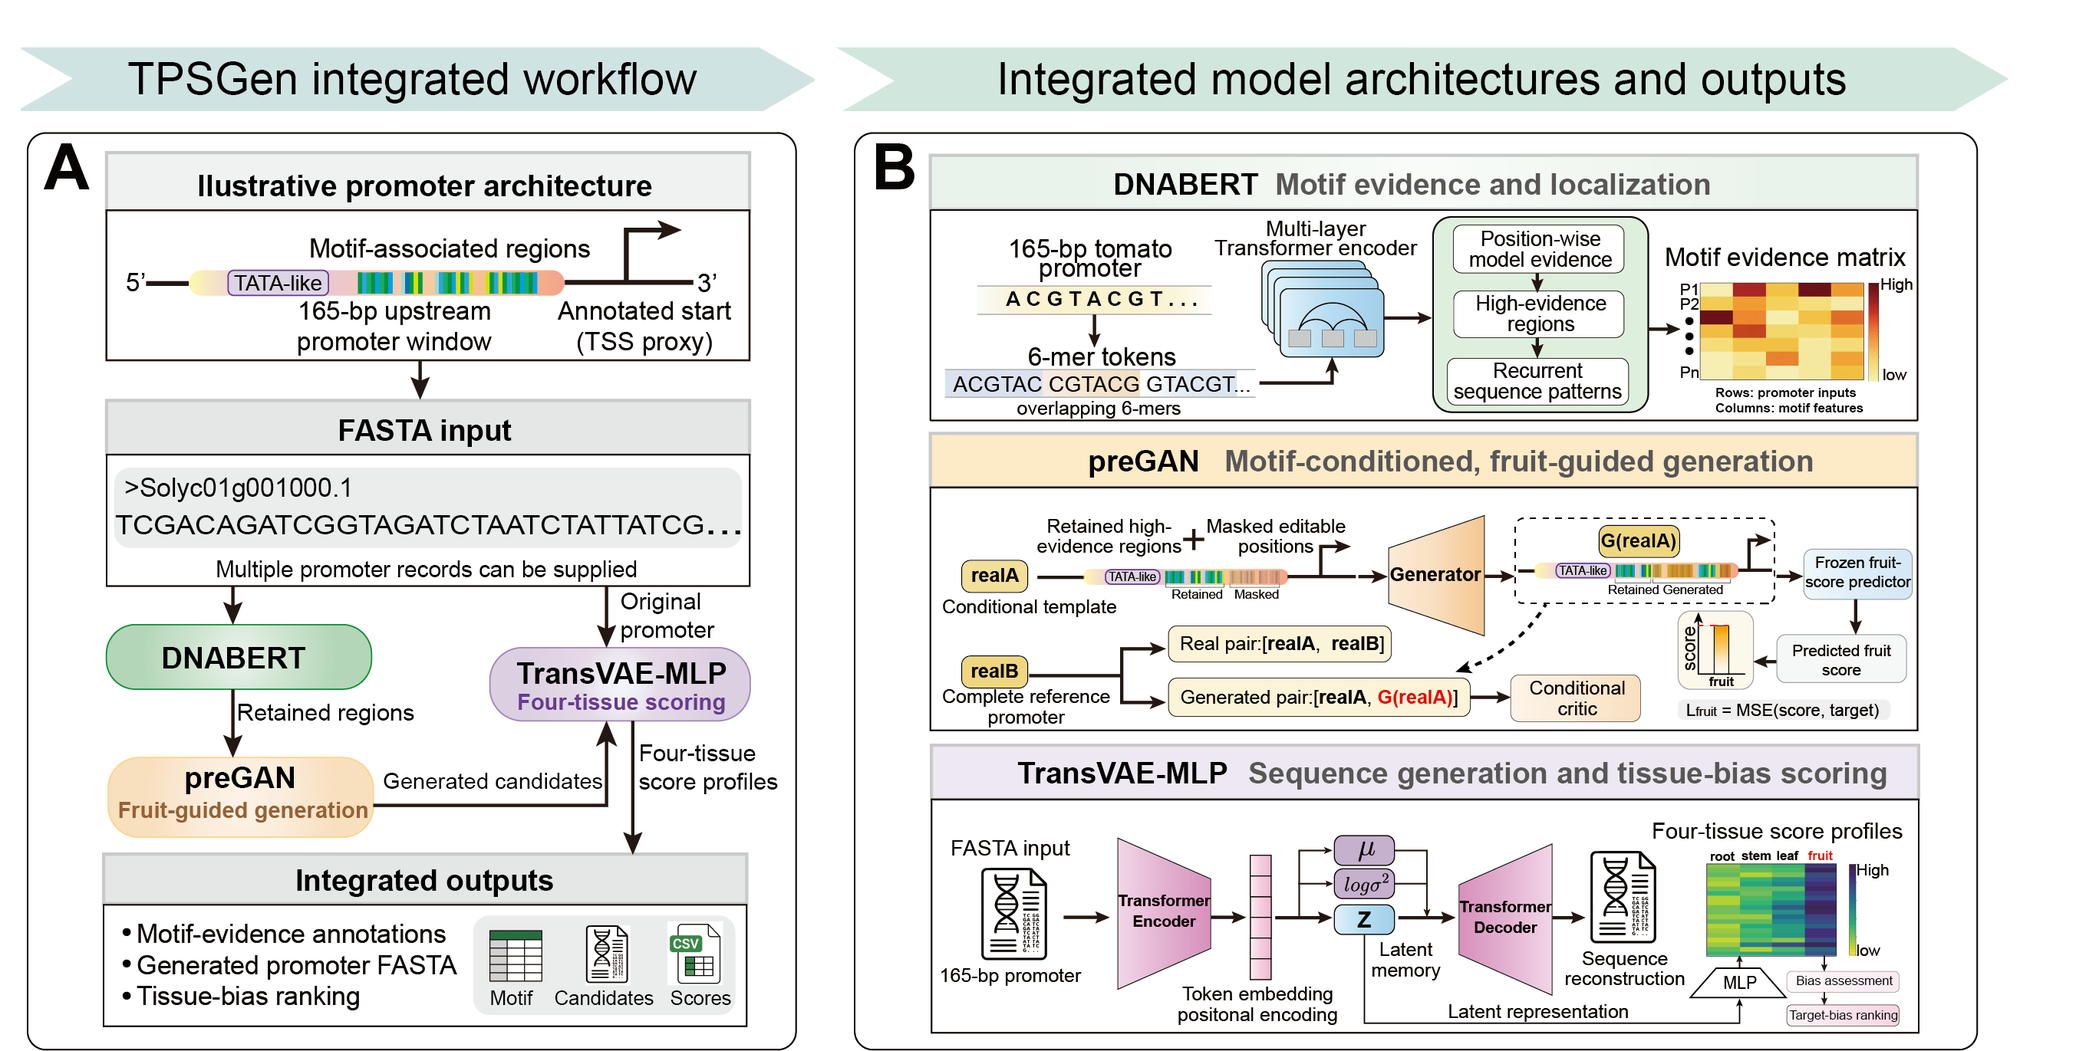
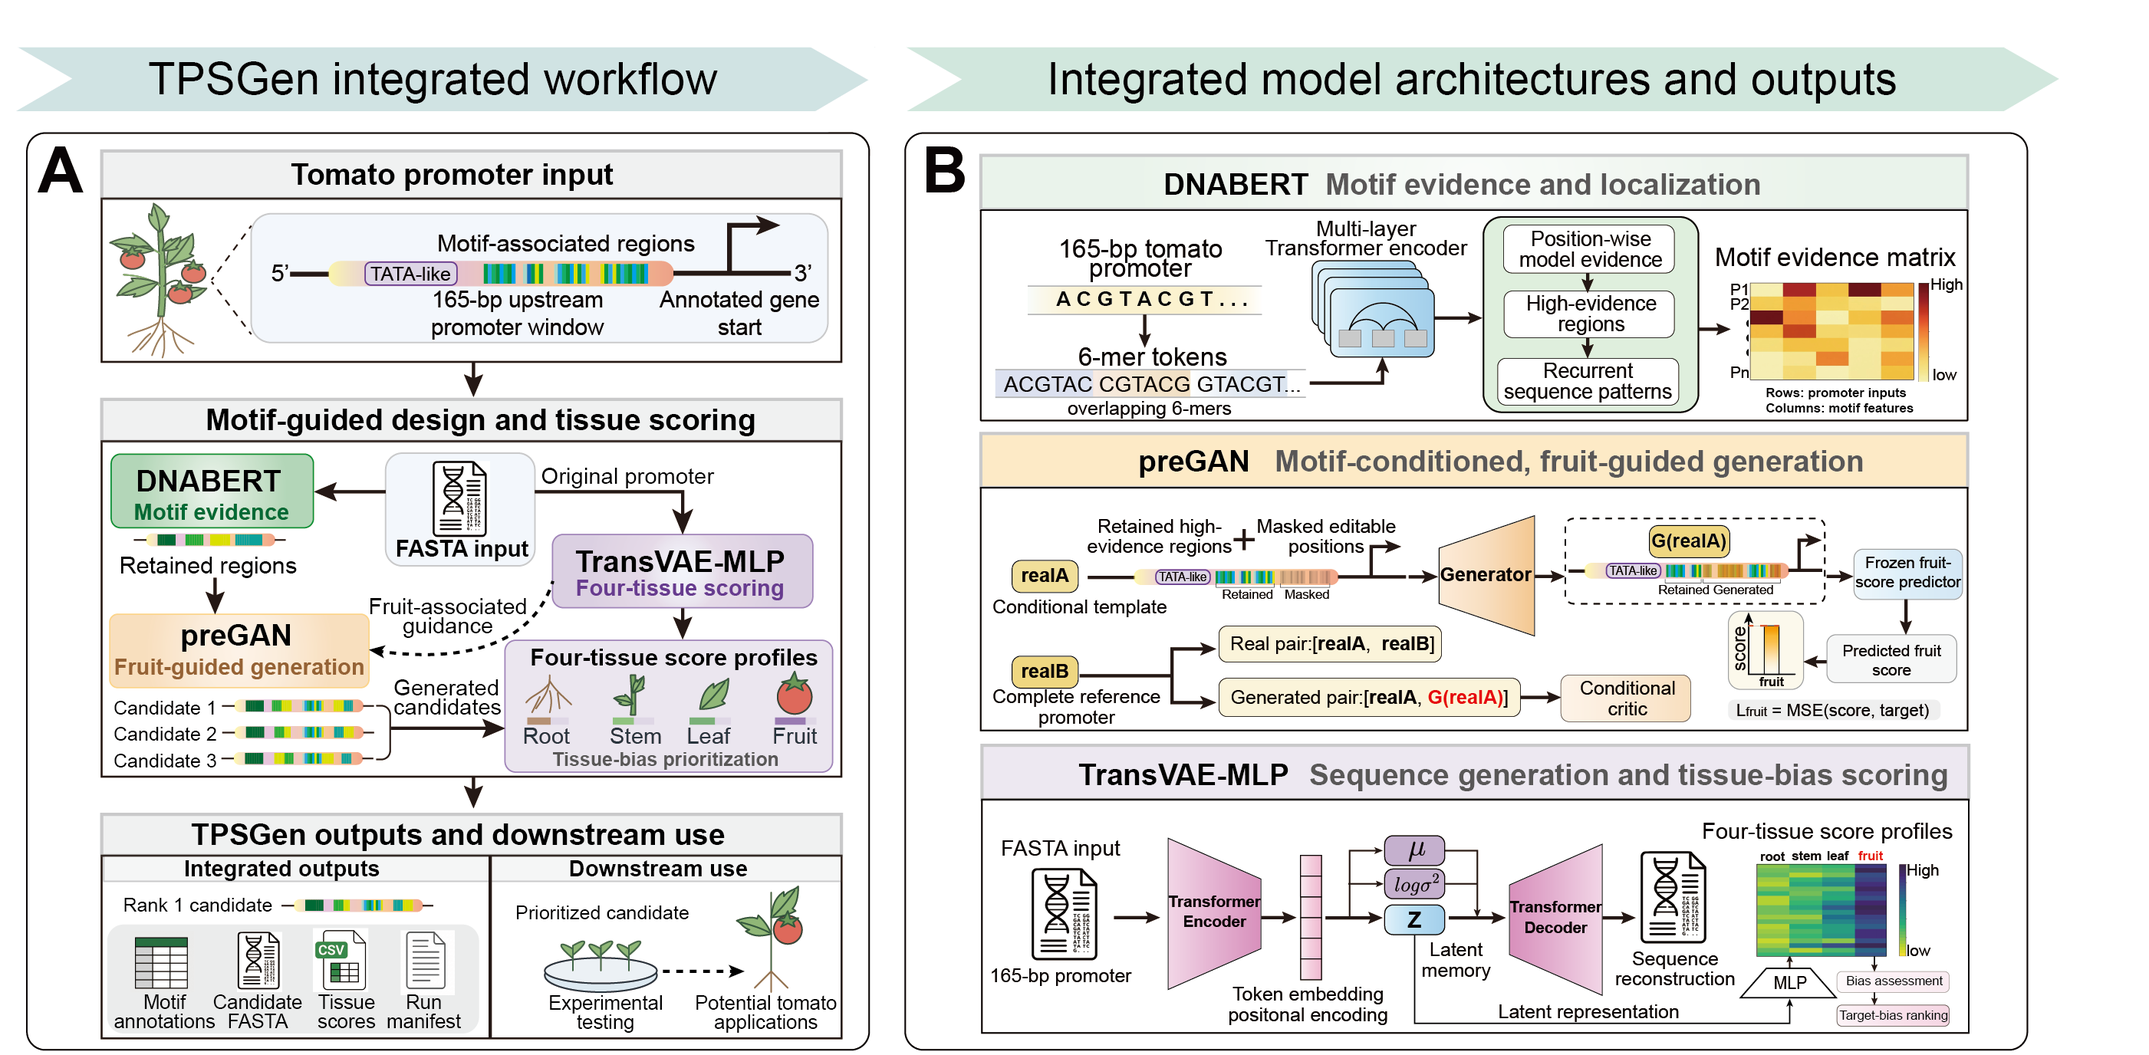
Initial commit

Changed region(s): [[0.0, 0.0306, 0.932, 1.0], [0.0621, 0.0613, 0.3417, 0.0919]]

diff --git a/docs copy/model_migration_audit.md b/docs copy/model_migration_audit.md
@@ -1,0 +1,266 @@
+# Model migration audit
+
+This internal document records the evidence used to migrate the three thesis
+mechanisms into TomatoPromoterDesigner. It is not manuscript text. A component
+is considered released only after its source, checkpoint, input data and output
+have been matched and tested together.
+
+## Release rule
+
+Each mechanism must pass all of the following checks before it is described as a
+package capability:
+
+1. The implemented architecture strictly loads the intended checkpoint.
+2. Input preprocessing matches the preprocessing used for that checkpoint.
+3. A retained result can be reconstructed from a documented command.
+4. Output fields state whether values are model scores, measured values or
+   descriptive sequence statistics.
+5. The manuscript, Supplement, README and CLI use the same mechanism name.
+
+## Mechanism 1: TransVAE-MLP
+
+### Thesis definition
+
+The Chapter 3 mechanism combines a Transformer-based VAE with a four-output MLP.
+The same latent representation supports sequence reconstruction/generation and
+root, stem, leaf and fruit target estimation. The thesis then describes latent-
+space search for fruit-biased candidates.
+
+### Matched original resources
+
+| Resource | Original path | Verified observation |
+|---|---|---|
+| Transformer building blocks | `MpraVAE/code/TransVAE.py` | Contains Transformer encoder/decoder, convolutional bottleneck and autoregressive decoder components. |
+| Joint training logic | `MpraVAE/code/transformervae.py` | Contains four-target loading, reconstruction/KL/prediction terms, KL warm-up and retained training metrics. |
+| Transformer checkpoint | `MpraVAE/code/transformerresult/models1/best_val_corr_model.pth` | Contains 180 keys, including `transvae.*`, `predictor.*` and `vocab_to_base.*`. |
+| Training history | `MpraVAE/code/transformerresult/results1/loss_curves/loss_history.csv` | Contains 50 epochs of retained losses. |
+| Training log | `MpraVAE/code/transformerresult/logs1/training_log.log` | The best mean validation correlation occurs at epoch 47: 0.7801, 0.8237, 0.8019 and 0.7924 for targets 1--4. |
+| Retained Transformer candidates | `MpraVAE/results/trans_designed_promoters200.csv` | Contains 20 retained candidate rows. |
+
+### Blocking inconsistencies
+
+- The checkpoint uses a 128-dimensional latent representation: for example,
+  `transvae.encoder.z_means.weight` has shape `(128, 896)` and the predictor
+  begins with a `(128, 128)` weight. It is not the 64-dimensional convolutional
+  checkpoint currently bundled by the package.
+- The checkpoint contains a 23-token embedding and a 22-token generator output.
+  The retained vocabulary file is a peptide vocabulary inherited from the base
+  Transformer implementation, while the joint training script converts DNA
+  one-hot channels directly to integer indices using `A=0`, `C=1`, `G=2` and
+  `T=3`. The unused embedding and generator dimensions are therefore inherited
+  implementation capacity, not 23 biologically defined DNA tokens.
+- The joint wrapper fragment sets `pad_idx=0` and constructs masks from
+  `token != 0`, although token 0 also represents A. Consequently, the checked
+  source masks adenine positions as if they were padding. This behavior is a
+  retained implementation defect, not a biologically motivated preprocessing
+  choice. Compatibility inference and any corrected retraining route must keep
+  these two behaviors explicit and separate.
+- The checked `transformervae.py` calls `JointPromoterModel`, but that class is
+  absent from the file. A second `forward` method is incorrectly nested under
+  `ExpressionPredictor`. The source therefore cannot currently recreate the
+  checkpoint architecture without reconstruction.
+- The script writes `params['latent_dim']`, whereas `create_VAE` reads
+  `params['d_latent']`. The retained checkpoint demonstrates that the effective
+  latent dimension was 128.
+- The reported 3-mer term is calculated from detached, discretized outputs and
+  wrapped in a new tensor. It is logged in the total objective but does not
+  propagate a gradient to the generator. It must not be described as an active
+  differentiable training constraint without correction and retraining.
+- `generate1.py` performs genetic-algorithm search using the separate
+  convolutional `vaecnn1.JointPromoterModel`; it is not a verified design entry
+  point for the 180-key Transformer checkpoint.
+- `tragenerate.py` is not an executable Transformer design route. It calls a
+  nonexistent `transvae.embedding`, assumes incompatible encoder and decoder
+  signatures, passes undefined keyword arguments and later calls `model.decoder`,
+  which is not present on the recovered joint wrapper.
+
+### Checkpoint-to-data verification
+
+A clean reconstructed architecture strictly loads all 180 checkpoint keys. The
+missing joint wrapper was recovered from the retained Python 3.10 bytecode. This
+showed that the fourth value returned by `TransVAE.forward` was misleadingly
+named `z` in the wrapper: it was actually
+`predict_len2(predict_len1(mu))`, and this 128-dimensional deterministic
+representation was passed to the expression MLP. The predictor did not receive
+the sampled latent variable.
+
+The historical wrapper audit used the source-defined DNA mapping and its
+retained validation table to document the provenance of the old evaluation
+artifact. That artifact is not a released scoring checkpoint.
+Computed correlations are 0.780106, 0.823665, 0.801869 and 0.792406; these match
+the rounded epoch-47 log values 0.7801, 0.8237, 0.8019 and 0.7924. The separate
+`validation_set.csv` contains 3,000 rows and is not the validation table used for
+this retained checkpoint.
+
+The current release does not ship that historical checkpoint or its truncated
+input path. The active training and scoring implementation uses complete
+165-bp inputs with nucleotide positions as valid attention keys.
+
+### Design-path verification
+
+The thesis describes genetic-algorithm search within a plus/minus 2 neighborhood
+of an encoded latent vector. Its fitness is the fruit score minus the maximum of
+the root, stem and leaf scores, with a penalty for negative non-fruit scores.
+That scientific target is clear, but the retained Transformer checkpoint does
+not currently provide a valid implementation of the stated design path.
+
+The historical joint wrapper shifts the DNA tokens into `src=token[:-1]` and
+`tgt=token[1:]`, but its target mask only removes token 0 positions. It does not
+apply a causal autoregressive mask. Under this retained teacher-forced path, the
+decoder reconstructs 99.83% of bases in a 128-sequence diagnostic batch. However,
+replacing the decoder latent input with zeros, random vectors, reversed-sample
+means or the MLP prediction representation leaves 100% of decoded base calls
+unchanged. The decoder is therefore copying information from the unmasked target
+context and is not demonstrably conditioned on the latent representation.
+
+The retained `trans_designed_promoters200.csv` is also not releasable evidence:
+its 20 generated sequences contain on average 92.36% C and no G or T, with a
+median maximum homopolymer length of 103 bp (range 48--143 bp). These sequences
+are degenerate and fail basic sequence-quality expectations.
+
+Consequently, the package must not expose latent-space GA design from this
+checkpoint. A valid route requires corrected causal decoding, a single explicitly
+shared representation for the predictor and decoder, retraining, and validation
+that decoded sequences both respond to latent perturbation and pass predefined
+sequence QC. The thesis fitness function can be retained in that corrected
+training/design implementation, but the historical candidate table cannot be
+used as its validation output.
+
+### Current package state
+
+The current `models/mpravae/best_val_corr_model.pth` is a 51-key convolutional
+VAE checkpoint. The matching model is implemented in
+`legacy/transvae_tomato.py`. This route must be treated as a convolutional VAE
+backend and must not be presented as the complete thesis TransVAE-MLP mechanism.
+
+### Migration decision
+
+Status: **blocked from release, available for reconstruction work**.
+
+A clean 128-dimensional Transformer joint core has now been reconstructed,
+strictly loads all 180 keys and reproduces the retained epoch-47 validation
+correlations. It remains internal until the checkpoint is packaged, the
+compatibility limitations are represented in user-facing metadata and the
+Transformer-compatible design route is retrained and validated. A corrected
+architecture needs an explicit DNA vocabulary and padding token, causal target
+masking and a shared predictor/decoder representation; it must be released as a
+distinct model version. The existing convolutional route will remain available
+under an explicit backend name during this migration.
+
+## Mechanism 2: DNABERT-derived motif identification
+
+### Matched resources
+
+- Base 6-mer checkpoint: `DNABERT/6-new-12w-0.zip`.
+- Matching retained attention input: `DNABERT/examples/sample_data/vision/dev.tsv`.
+- Retained arrays: `DNABERT/examples/result/6/atten.npy` and
+  `pred_results.npy`, both with 10,222 rows.
+- Retained fine-tuned-model candidate: `DNABERT/examples/ft/6`, containing a
+  12-layer, 768-hidden-unit, 12-head `BertForSequenceClassification` checkpoint
+  with a two-class head and `finetuning_task=dna690`.
+- Motif processing: `DNABERT/motif/find_motifs.py` and `motif_utils.py`.
+- Mutation processing: `DNABERT/SNP/`.
+
+The 10,222-row `vision/dev.tsv` is byte-identical to
+`tomatoft/tomatoft3-qvjian/train.tsv`. The separate 6,000-row
+`tomatoft/dev.tsv` does not match the retained attention array.
+
+The checkpoint in `examples/ft/6` is not the model that produced the retained
+arrays. Recomputing class-1 probabilities for the first ten rows of
+`vision/dev.tsv` gives a maximum absolute difference of 0.932 from
+`examples/result/6/pred_results.npy`. A retained cache filename,
+`cached_dev_fitresultnew_81_dnaprom`, indicates that the visualization run used
+a checkpoint or output directory named `fitresultnew`; that checkpoint is not
+present in the checked tree. The existing `ft/6` model must therefore not be
+silently substituted.
+
+Status: **post-processing is reconstructable; raw FASTA-to-attention inference
+requires the matching `fitresultnew` tomato fine-tuned checkpoint, which has not
+yet been located**. The unrelated `ft/6` classifier is retained evidence of a
+separate fine-tuning run, not a valid replacement.
+
+### Post-processing reproduction
+
+The package adapter now follows the retained operation order: exact
+high-attention subsequences are tested for enrichment first, Benjamini-Hochberg
+adjustment is applied across those exact motifs, and only significant motifs are
+then merged and expanded to 24-bp windows. The previous adapter incorrectly
+merged motifs before testing and returned the 20 highest-ranked candidates when
+none was significant. That fallback converted adjusted p-values of 1.0 into
+apparent motif output and has been removed. An empty significant set now produces
+an explicit empty-result record rather than nonsignificant motifs.
+
+Using `vision/dev.tsv` (10,222 rows), `result/6/atten.npy`, `window_size=24`,
+`min_len=5`, adjusted-p-value cutoff 0.005 and `min_n_motif=3`, the corrected
+adapter extracts 8,096 exact motifs, retains 787 after enrichment testing,
+produces 31 merged motif groups and retains 27 motif records after 24-bp
+windowing and minimum-instance filtering. These counts match the 27 motif
+files retained under the original `motif/result/6` directory. The regenerated
+repository table reports the top retained motifs as CAAAA (316), CTATT (239),
+ATTTT (188), TTAAA (184) and TTTAT (121). Older retained `6-2` and `6-3` summary files are
+byte-identical frequency-style retained copies and must not be described as
+independent validation runs or as the current adapter output.
+
+Exact reconstruction requires Biopython 1.85 or later. Biopython 1.79 selects
+different optimal terminal-gap alignments in `PairwiseAligner`, yielding 29
+motifs and altered instance counts on the same data. The package therefore sets
+`biopython>=1.85`. The retained script's `align_all_ties` branch compares
+alignment objects rather than their numeric scores; the compatibility path
+preserves that actual behavior because changing it duplicates instances across
+equally scoring canonical motifs. This is a provenance-compatible reconstruction
+of retained attention outputs, not FASTA-to-attention inference and not an
+independent biological validation of the DNABERT classifier.
+
+## Mechanism 3: preGAN
+
+### Matched resources
+
+- Conditional data: `deepseed/data/merged_result.csv`, containing 5,100 rows of
+  `realA`, `realB` and `expr`.
+- Mask encoding: `deepseed/Generatorme/pro_data.py`.
+- DenseLSTM definition and checkpoint: `deepseed/Predictor/SeqRegressionModel.py`
+  and `deepseed/Predictor/results/model/165_mpra_expr_denselstm.pth`.
+- Closest predictor-guided WGAN-GP implementation:
+  `deepseed/Generator/preGAN.py`.
+
+`pre-GAN-target.py` does not call a predictor in the expression term.
+`pre-GAN-target1.py` instantiates a DenseLSTM predictor but does not load trained
+weights. These files are experimental variants and will not be migrated as the
+released implementation.
+
+Status: **partially reconstructable**. The predictor checkpoint exists, but the
+referenced preGAN generator checkpoint has not yet been located. The corrected
+training route must be parameterized and tested; otherwise the generator must be
+retrained before preGAN inference is released.
+
+### Predictor and training-path audit
+
+Only two model checkpoints were found under the complete `deepseed` tree, both
+named `165_mpra_expr_denselstm.pth`. They deserialize as complete DenseLSTM
+models with 612,897 parameters and 175 state tensors, but they are not copies:
+none of their 175 tensors is identical. The packaged checkpoint has SHA-256
[1 lines of base64/hex data omitted]
+and exactly matches `Predictor/results/model/165_mpra_expr_denselstm.pth`. Its
+retained training log ends at a validation correlation of approximately 0.710.
+The alternative `results1` checkpoint has SHA-256
[1 lines of base64/hex data omitted]
+and its retained log ends near 0.021 with much larger losses. The `results1`
+branch must not supply figures for the packaged `results` checkpoint.
+
+The corresponding candidate training table `data/output.csv` contains 8,545
+165-bp sequence/expression rows. The conditional GAN table
+`data/merged_result.csv` contains 5,100 rows with `realA`, `realB` and `expr`;
+`realA` uses `M` to mark mutable positions while fixed nucleotides preserve the
+retained motif/flanking context. These row counts describe retained resources,
+not independent test cohorts.
+
+None of the retained GAN scripts forms a releasable predictor-guided training
+route as written. `preGAN_expr.py` accepts a predictor argument but does not use
+it in its loss, and its entry point passes no predictor. `pre-GAN-target.py`
+compares the generated sequence tensor with a tensor filled with 100 rather than
+calling an expression model. `pre-GAN-target1.py` does call a DenseLSTM in the
+loss, but instantiates it with random weights and never loads either retained
+checkpoint. No generator or discriminator checkpoint is present anywhere under
+`deepseed`. Consequently, the package may expose the matched DenseLSTM scalar
+scorer, but must not expose trained preGAN generation until a corrected training
+implementation is retrained and a matching generator checkpoint is validated.

diff --git a/docs copy/tool_documentation.md b/docs copy/tool_documentation.md
@@ -1,0 +1,65 @@
+# TPSGen Final Tool Documentation
+
+## Connected Workflow
+
+```text
+165 bp promoter
+  → DNABERT evidence
+  → retained-position masked template
+  → preGAN generation
+  → TransVAE four-tissue scoring
+  → ranked candidates
+```
+
+DNABERT evidence is passed into preGAN through the retained-position template. TransVAE then scores generated candidates for root-, stem-, leaf-, and fruit-associated activity.
+
+## Validate Models
+
+```bash
+tpsgen validate-models
+```
+
+Run this before release inference to check model paths and checkpoint availability.
+
+## Run the Integrated Route
+
+```bash
+tpsgen run-pregan \
+  --input input.fasta \
+  --checkpoint models/pregan/original_pregan_10000.pt \
+  --candidates 8 --target fruit \
+  --output results/design_run
+```
+
+Input records must be unique canonical A/C/G/T sequences of exactly 165 bp. Invalid records are reported rather than silently altered.
+
+Outputs include DNABERT evidence, retained positions, the masked template supplied to preGAN, generated candidates, four TransVAE scores, preferred tissue, target-bias margin, validated tissue-bias `tau`, and run provenance.
+
+## Native Route
+
+The native generator remains a separate deterministic route. It uses its own motif scanner and is not presented as consuming DNABERT retained positions. Invalid option combinations that imply this information transfer are rejected.
+
+## TransVAE Rules
+
+- The default scorer is `models/transvae/historical_compatible_best_val_corr.pth` and reproduces the historical checkpoint's input semantics.
+- `models/transvae/full_length_joint_model.pth` is retained as the corrected full-length development route and is not used to claim the historical checkpoint metrics.
+- Non-finite or negative values are rejected for `tau` calculation.
+- Raw checkpoint outputs are converted with `softplus` before calculating `tau`.
+- `tau` is reported together with preferred tissue and target-bias margin.
+- `paper_strict` requires the requested threshold (default 0.7). Adaptive fallback results are labelled `target_biased`; the manifest records both requested and effective thresholds.
+
+## Data Provenance
+
+The fixed split under `data/raw/transvae/paper_split/` contains 11,257 training, 1,407 validation, and 1,407 test records, for 14,071 total. The manifest stores source, seed, count, and file-checksum metadata.
+
+The packaged 3,703-record checkpoint-characterization table is stored under `data/results/activity_validation_20260924/` with record-level observed values, predictions, metrics, and metadata. It is not presented as an independent external evaluation cohort.
+
+## Reproducibility Record
+
+For every released run retain the TPSGen version, command, configuration, input checksum, checkpoint checksum, split manifest, seed, record-level predictions, and generated metrics.
+
+## Tests
+
+```bash
+PYTHONPATH=src pytest -q
+```

diff --git a/docs copy/training.md b/docs copy/training.md
@@ -1,0 +1,54 @@
+# TransVAE Joint Training
+
+The release training path matches the TPSGen model description: a Transformer variational autoencoder processes the complete 165 bp sequence and jointly optimizes reconstruction, KL-divergence, four-tissue prediction, and differentiable 3-mer objectives.
+
+## Environment
+
+```bash
+cd /data/zhoujie/Paper/github/TPSGen
+conda activate py39
+python -c "import torch; print(torch.__version__); print(torch.cuda.is_available())"
+```
+
+CUDA availability must print `True` for GPU training.
+
+## Fixed Release Split
+
+`data/raw/transvae/paper_split/manifest.json` defines the historical seed-42
+split used by the released training workflow. A differently constructed
+split requires retraining and must not be substituted beneath an existing
+checkpoint.
+
+| File | Records | Use |
+|---|---:|---|
+| `train.csv` | 11,257 | model fitting |
+| `validation.csv` | 1,407 | validation |
+| `test.csv` | 1,407 | final evaluation |
+
+The manifest records the source dataset checksum and each split-file checksum. Release evaluation must use these fixed files without reshuffling.
+
+## Training Command
+
+```bash
+PYTORCH_CUDA_ALLOC_CONF=expandable_segments:True \
+PYTHONPATH=src \
+python scripts/train_transvae.py \
+  --input-csv data/raw/transvae/paper_split/train.csv \
+  --output-checkpoint models/transvae/full_length_joint_model.pth \
+  --metrics-json models/transvae/full_length_joint_metrics.json \
+  --epochs 20 \
+  --device cuda
+```
+
[1 lines of base64/hex data omitted]
+
+The best epoch was selected through an internal deterministic subset of the training file. The separately versioned validation and test files are not used for parameter updates.
+
+## Release Checks
+
+```bash
+tpsgen validate-models
+PYTHONPATH=src pytest -q
+```
+
+Keep the architecture version, tokenizer rules, sequence length, loss weights, seed, split hashes, epoch count, checkpoint checksum, and record-level evaluation outputs with every release.
